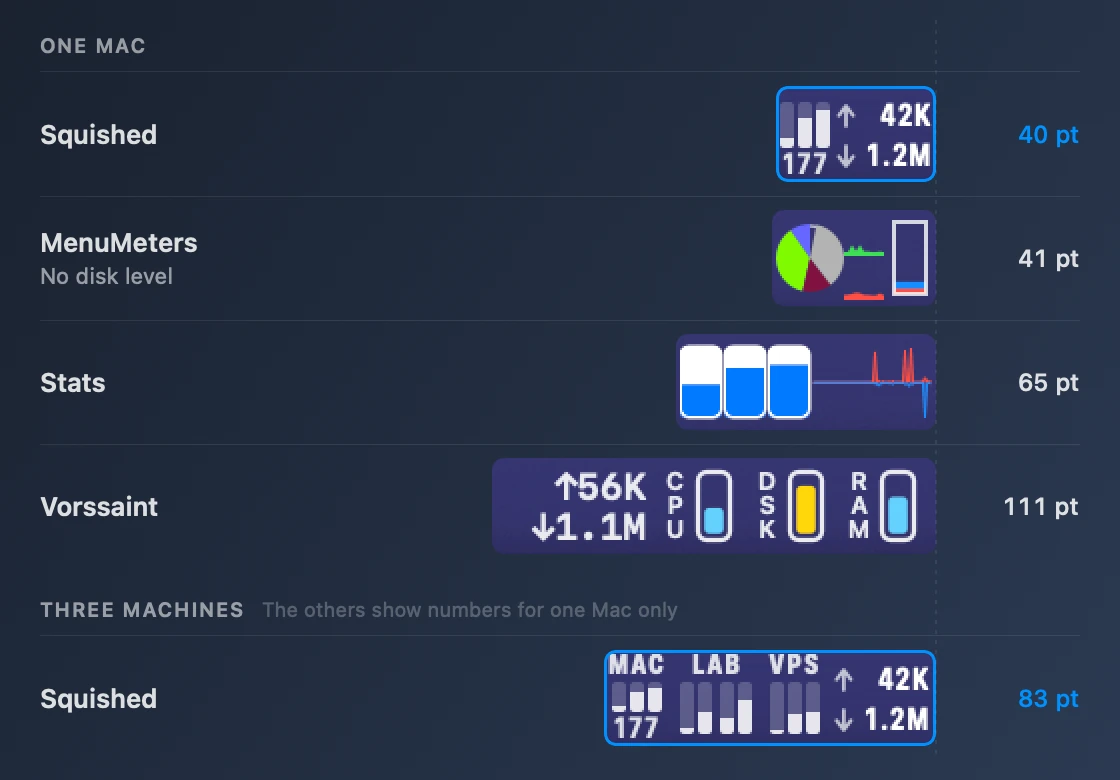
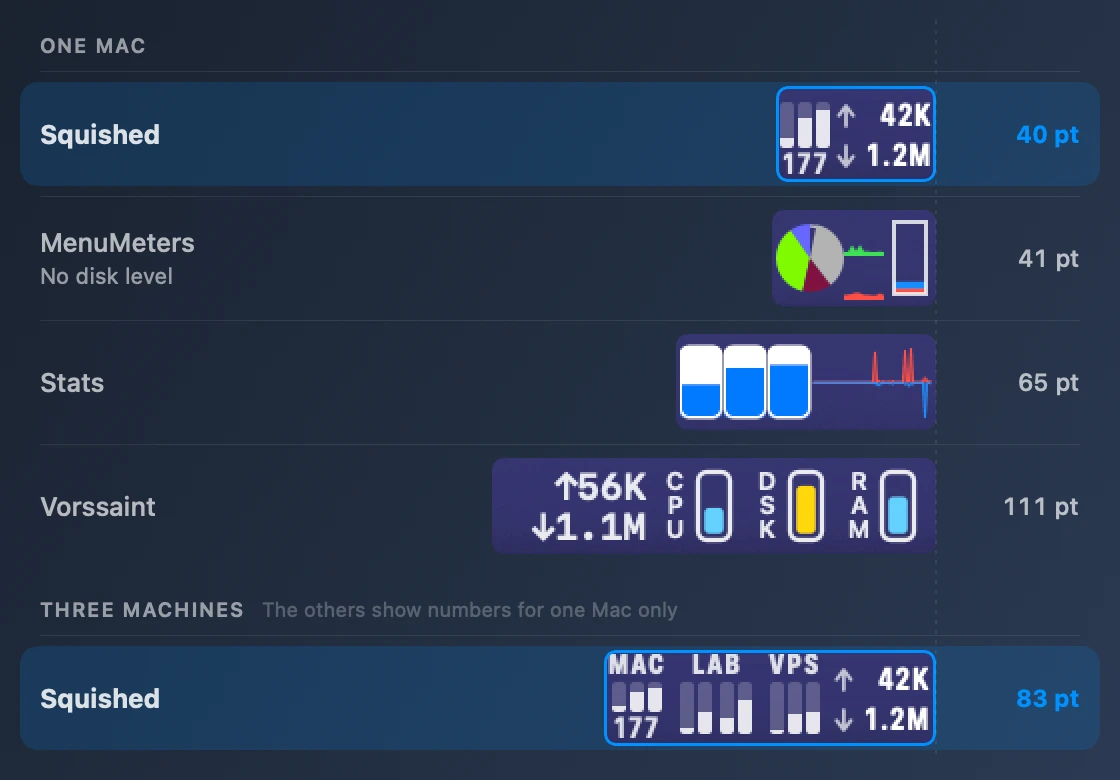
Mark the Squished rows in the width comparison

diff --git a/Sources/Squished/UI/ReadmeImageRenderer.swift b/Sources/Squished/UI/ReadmeImageRenderer.swift
@@ -181,7 +181,7 @@ private struct MenuBarWidthComparison: View {
             section("ONE MAC")
             squishedRow(item: localItem)
             ForEach(apps.sorted { $0.app.span < $1.app.span }, id: \.app.name) { entry in
-                row(entry.app.name, note: entry.app.note, span: entry.app.span, valueColor: .primary) {
+                row(entry.app.name, note: entry.app.note, span: entry.app.span) {
                     Image(nsImage: entry.capture)
                         .interpolation(.none)
                         .resizable()
@@ -228,7 +228,7 @@ private struct MenuBarWidthComparison: View {
 
     private func squishedRow(item: NSImage) -> some View {
         let span = item.size.width + Self.statusItemPadding
-        return row("Squished", note: nil, span: span, valueColor: .blue) {
+        return row("Squished", note: nil, span: span, highlighted: true) {
             Image(nsImage: item)
                 .interpolation(.none)
                 .resizable()
@@ -238,13 +238,20 @@ private struct MenuBarWidthComparison: View {
                 .clipShape(Self.stripShape)
                 .overlay { Self.stripShape.strokeBorder(.blue, lineWidth: 1.5) }
         }
+        // A tinted band marks this app's rows. It reaches into the side margins.
+        .background {
+            RoundedRectangle(cornerRadius: 9).fill(.blue.opacity(0.16))
+                .padding(.horizontal, -10)
+                .padding(.vertical, 5)
+        }
     }
 
-    private func row(_ name: String, note: String?, span: CGFloat, valueColor: Color,
+    private func row(_ name: String, note: String?, span: CGFloat, highlighted: Bool = false,
                      @ViewBuilder content: () -> some View) -> some View {
         HStack(spacing: Self.columnSpacing) {
             VStack(alignment: .leading, spacing: 2) {
-                Text(name).font(.system(size: 13, weight: .semibold)).foregroundStyle(.primary)
+                Text(name).font(.system(size: 13, weight: highlighted ? .bold : .medium))
+                    .foregroundStyle(.primary.opacity(highlighted ? 1 : 0.8))
                 if let note {
                     Text(note).font(.system(size: 11)).foregroundStyle(.secondary)
                 }
@@ -254,8 +261,8 @@ private struct MenuBarWidthComparison: View {
             content().frame(maxWidth: .infinity, alignment: .trailing)
 
             Text("\(FleetFormat.decimal(Double(span), digits: span.rounded() == span ? 0 : 1)) pt")
-                .font(.system(size: 12, weight: .medium).monospacedDigit())
-                .foregroundStyle(valueColor)
+                .font(.system(size: 12, weight: highlighted ? .bold : .medium).monospacedDigit())
+                .foregroundStyle(highlighted ? AnyShapeStyle(.blue) : AnyShapeStyle(.primary.opacity(0.8)))
                 .frame(width: Self.valueWidth, alignment: .trailing)
         }
         .frame(height: 62)
